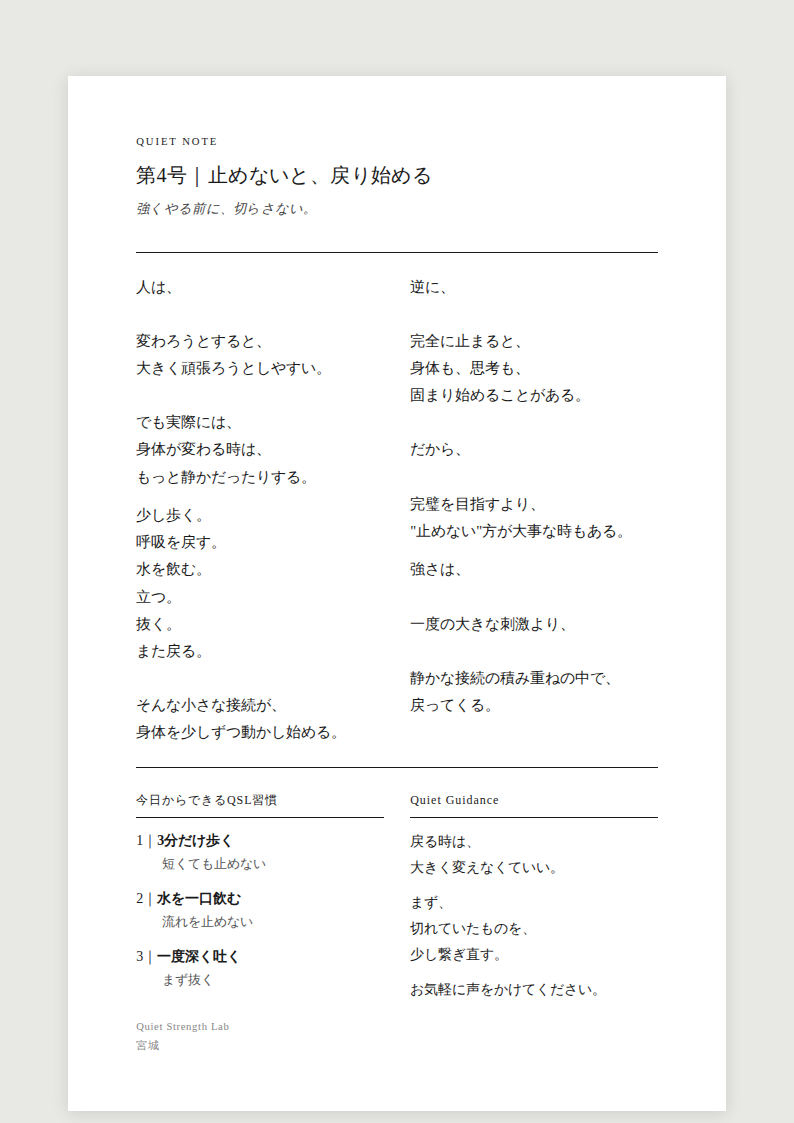
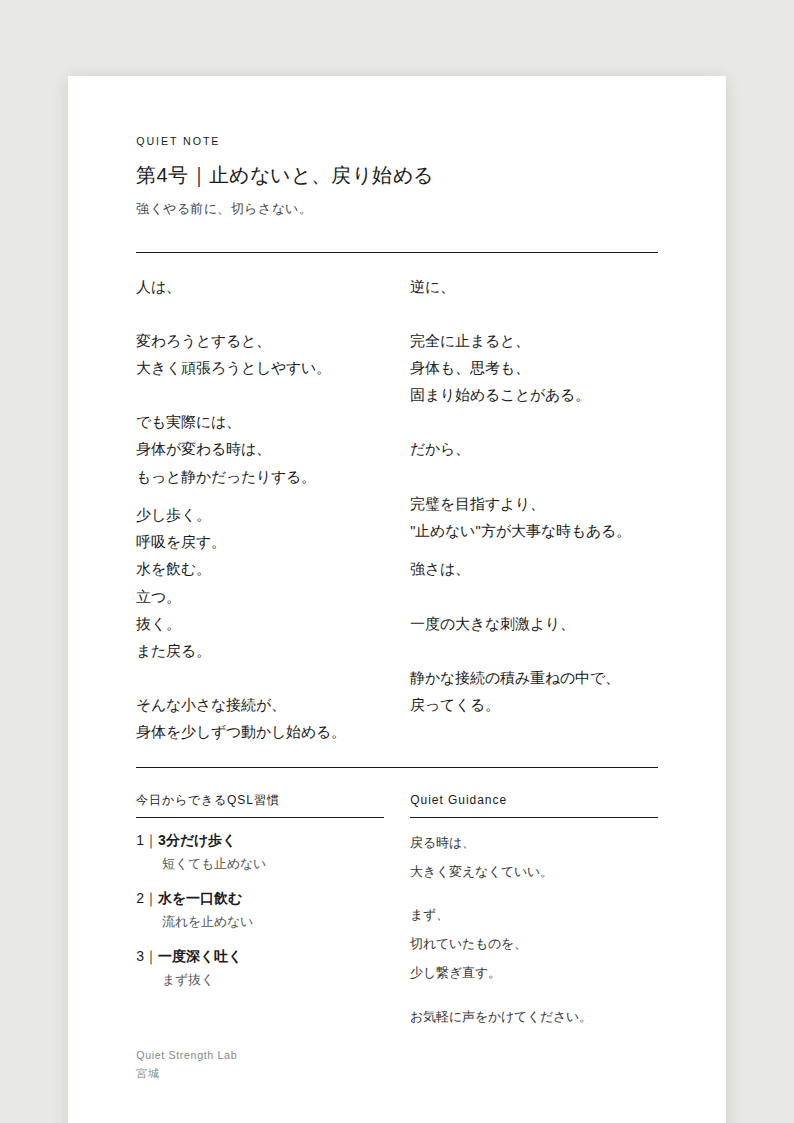
Quiet Note 第4号：ゴシック体統一・余白バランス調整
- フォントをゴシック体（Hiragino Sans / Yu Gothic）へ変更
- body-columns を flex: 0 0 auto に変更（下段押し下げ防止）
- Quiet Guidance を余韻スタイルへ（line-height 2.15、color #333）
- subheadline のイタリック除去、letter-spacing 統一

https://claude.ai/code/session_01NCmRspHzLRzXJG9peBcjAd

diff --git a/quiet-note-04.html b/quiet-note-04.html
@@ -23,11 +23,13 @@
     }
 
     body {
-      font-family: Georgia, "Hiragino Mincho ProN", "Yu Mincho", serif;
+      font-family: "Hiragino Sans", "Hiragino Kaku Gothic ProN",
+                   "Yu Gothic", "Meiryo", sans-serif;
       font-size: 11pt;
       line-height: 1.85;
       color: #1a1a1a;
       background: #ffffff;
+      font-weight: 500;
     }
 
     /* ── Page container ─────────────────────────────── */
@@ -65,10 +67,9 @@
 
     .subheadline {
       font-size: 10pt;
-      font-style: italic;
-      font-weight: normal;
+      font-weight: 400;
       color: #444;
-      letter-spacing: 0.02em;
+      letter-spacing: 0.04em;
     }
 
     /* ── Rules ──────────────────────────────────────── */
@@ -87,7 +88,7 @@
       column-gap: 7mm;
       column-fill: balance;
       overflow: hidden;
-      flex: 1 0 auto;
+      flex: 0 0 auto;
     }
 
     .body-columns p {
@@ -112,7 +113,7 @@
 
     .block-label {
       font-size: 9pt;
-      font-weight: normal;
+      font-weight: 500;
       letter-spacing: 0.08em;
       margin-bottom: 3mm;
       padding-bottom: 1.5mm;
@@ -144,11 +145,13 @@
       margin-top: 0.3mm;
     }
 
-    /* Guidance block */
+    /* Guidance block — 余韻として残す */
     .guidance-text {
-      font-size: 10.5pt;
-      line-height: 1.85;
-      margin-bottom: 2.5mm;
+      font-size: 10pt;
+      font-weight: 400;
+      line-height: 2.15;
+      margin-bottom: 4mm;
+      color: #333;
     }
 
     .guidance-text:last-of-type { margin-bottom: 0; }
